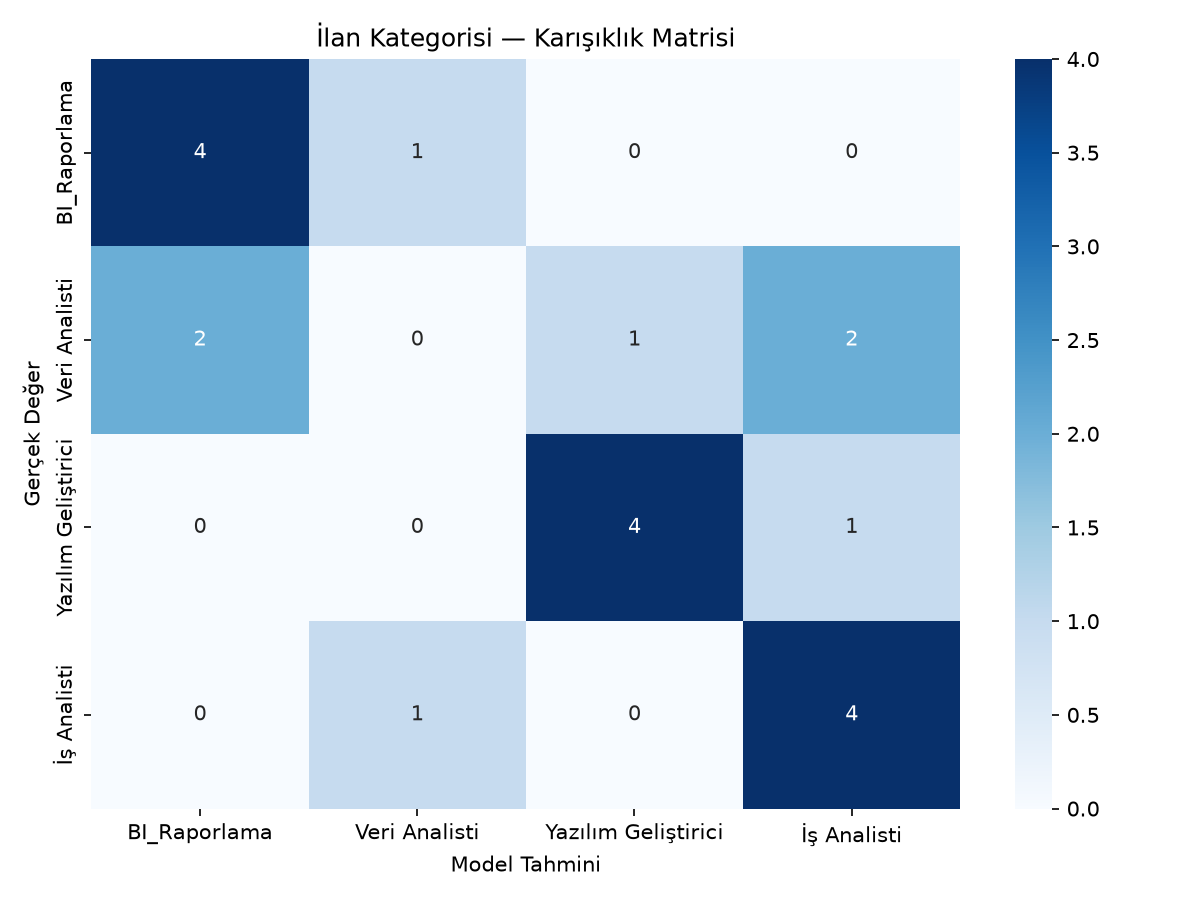
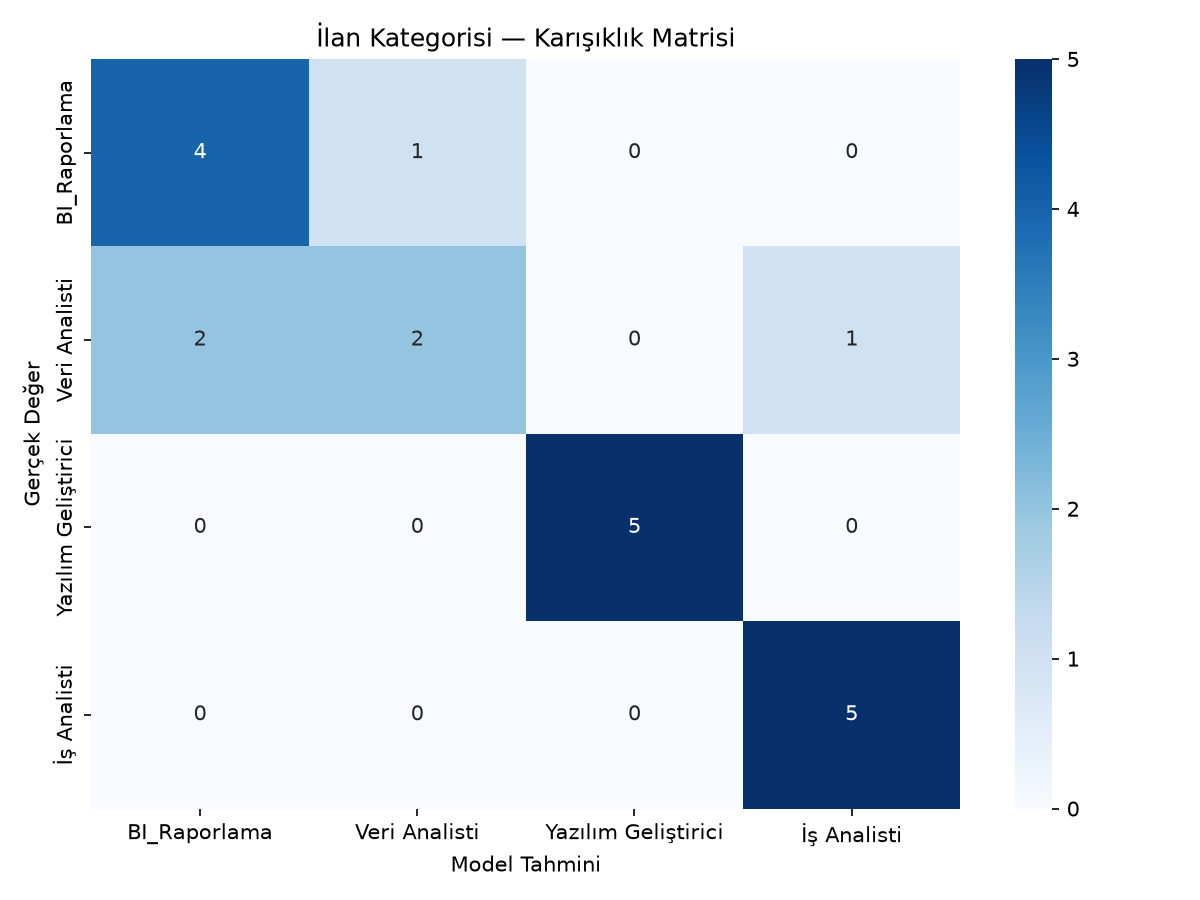
Makine ogrenmesi modeline Teknik Beceriler ozelligi eklendi ve dogruluk orani %80'e yukseltildi

diff --git a/04_Python/makine_ogrenmesi.py b/04_Python/makine_ogrenmesi.py
@@ -5,19 +5,20 @@ import seaborn as sns
 
 from sklearn.compose import ColumnTransformer
 from sklearn.pipeline import Pipeline
-from sklearn.preprocessing import OneHotEncoder
+from sklearn.preprocessing import OneHotEncoder, StandardScaler
+from sklearn.feature_extraction.text import CountVectorizer
 from sklearn.model_selection import train_test_split
 from sklearn.linear_model import LogisticRegression
 from sklearn.metrics import accuracy_score, classification_report, confusion_matrix
-from sklearn.preprocessing import OneHotEncoder, StandardScaler
 
 # 1) Veriyi oku
 PROJE_KLASORU = Path(__file__).resolve().parent.parent
 VERI_DOSYASI = PROJE_KLASORU / "02_Temiz_Veriler" / "is_ilanlari_temiz.xlsx"
 
 df = pd.read_excel(VERI_DOSYASI)
+df["Teknik Beceriler"] = df["Teknik Beceriler"].fillna("")
 
-# 2) Tahmin hedefi: ilanın yeni mezuna uygunluğu
+# 2) Tahmin hedefi: İlan kategorisi
 hedef = "Kategori"
 
 # Modelde kullanılacak alanlar
@@ -33,7 +34,9 @@ sayisal_sutunlar = [
     "Teknik Beceri Sayısı",
 ]
 
-X = df[kategorik_sutunlar + sayisal_sutunlar]
+metin_sutun = "Teknik Beceriler"
+
+X = df[kategorik_sutunlar + sayisal_sutunlar + [metin_sutun]]
 y = df[hedef].str.strip()
 
 print("\n--- HEDEF DEĞİŞKEN DAĞILIMI ---")
@@ -48,11 +51,12 @@ X_egitim, X_test, y_egitim, y_test = train_test_split(
     stratify=y
 )
 
-# 4) Kategorik alanları sayısallaştır
+# 4) Kategorik alanları sayısallaştır ve becerileri vektörleştir
 on_isleme = ColumnTransformer(
     transformers=[
         ("kategori", OneHotEncoder(handle_unknown="ignore"), kategorik_sutunlar),
         ("sayisal", StandardScaler(), sayisal_sutunlar),
+        ("beceriler", CountVectorizer(binary=True, token_pattern=r"(?u)\b[\w#+.]+\b"), metin_sutun),
     ]
 )
 
